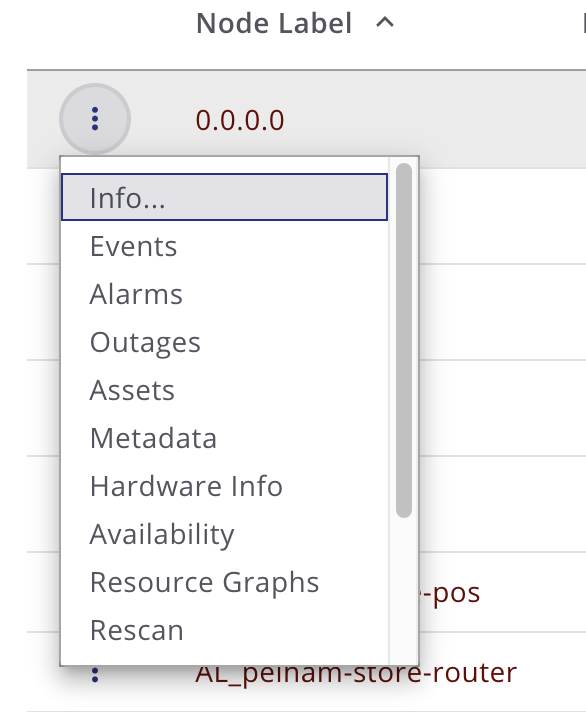
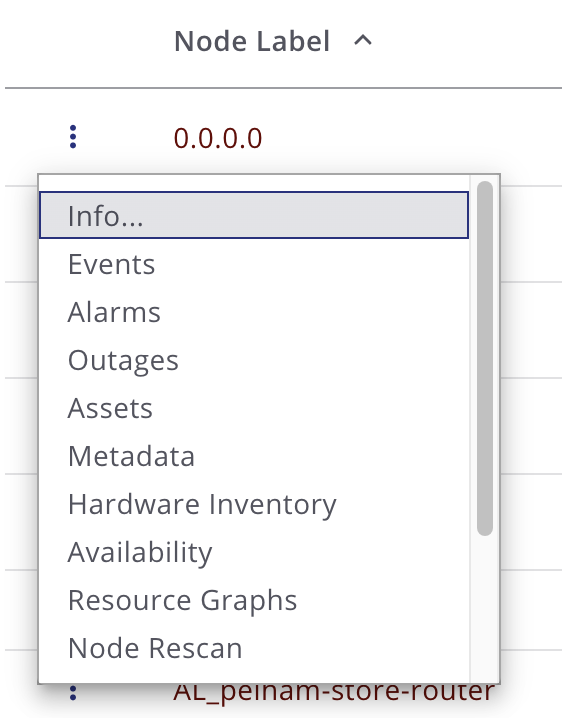
NMS-16210: Structured node list docs, address PR review comments

Changed region(s): [[0.0302, 0.0, 1.0, 1.0], [0.9982, 0.0, 1.0, 0.0618], [0.6352, 0.0, 0.6655, 0.0618]]

diff --git a/ui/src/components/Nodes/NodeActionsDropdown.vue b/ui/src/components/Nodes/NodeActionsDropdown.vue
@@ -52,14 +52,14 @@ const linkItems = [
   { name: 'view-outages', label: 'Outages' },
   { name: 'assets', label: 'Assets' },
   { name: 'metadata', label: 'Metadata' },
-  { name: 'hardware', label: 'Hardware Info' },
+  { name: 'hardware', label: 'Hardware Inventory' },
   { name: 'availability', label: 'Availability' },
   { name: 'graphs', label: 'Resource Graphs' },
-  { name: 'rescan', label: 'Rescan' },
-  { name: 'admin', label: 'Admin' },
-  { name: 'updateSnmp', label: 'Update SNMP' },
+  { name: 'rescan', label: 'Node Rescan' },
+  { name: 'admin', label: 'Admin / Node Management' },
+  { name: 'updateSnmp', label: 'Update SNMP Information' },
   { name: 'schedule-outage', label: 'Schedule an Outage' },
-  { name: 'topology', label: 'View in Topology' }
+  { name: 'topology', label: 'View Topology Map' }
 ]
 
 const onNodeLink = (name: string, node: Node) => {

diff --git a/ui/src/components/Nodes/NodeDetailsDialog.vue b/ui/src/components/Nodes/NodeDetailsDialog.vue
@@ -65,7 +65,7 @@ const nodeItems = computed(() => {
     { label: 'Sys Description', text: props.node?.sysDescription || EMPTY },
     { label: 'Sys Location', text: props.node?.sysLocation || EMPTY },
     { label: 'Sys Name', text: props.node?.sysName || EMPTY },
-    { label: 'Sys Object Id', text: props.node?.sysObjectId || EMPTY },
+    { label: 'Sys Object ID', text: props.node?.sysObjectId || EMPTY },
     { label: 'Flows', text: flowsText(props.node) },
     { label: 'Latitude/Longitude', text: `${props.node?.assetRecord.latitude ?? EMPTY} / ${props.node?.assetRecord.longitude ?? EMPTY}` },
     { label: 'Asset Category', text: props.node?.assetRecord.category || EMPTY },

diff --git a/ui/src/components/Nodes/ExtendedSearchPanel.vue b/ui/src/components/Nodes/ExtendedSearchPanel.vue
@@ -32,7 +32,7 @@ const searchOptions: ISelectItemType[] = [
   { title: 'Sys Description', value: 'sysDescription' },
   { title: 'Sys Location', value: 'sysLocation' },
   { title: 'Sys Name', value: 'sysName' },
-  { title: 'Sys Object Id', value: 'sysObjectId' },
+  { title: 'Sys Object ID', value: 'sysObjectId' },
   { title: 'SNMP Alias', value: 'snmpIfAlias' },
   { title: 'SNMP Description', value: 'snmpIfDescription' },
   { title: 'SNMP Index', value: 'snmpIfIndex' },
